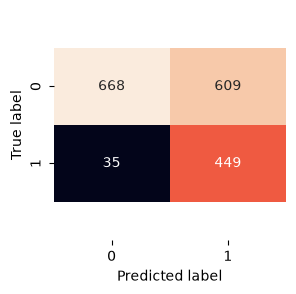
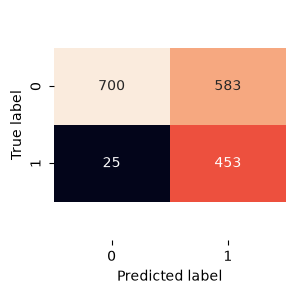
Changed the data file name

diff --git a/README.md b/README.md
@@ -1,0 +1,177 @@
+# 📉 Telco Customer Churn Prediction
+
+<p align="center">
+  <img src="images/workflow.png" alt="Project Workflow" width="100%">
+</p>
+
+An end-to-end supervised machine learning project that predicts whether a telecom customer is likely to churn (cancel their subscription). This project demonstrates the complete machine learning workflow, from exploratory data analysis and data preprocessing to model comparison, overfitting mitigation, and business-oriented threshold optimization.
+
+> **Goal:** Help telecom companies identify customers at risk of churning so proactive retention strategies can be applied.
+
+---
+
+## 🚀 Tech Stack
+
+- **Language:** Python
+- **Data Analysis:** Pandas, NumPy
+- **Machine Learning:** Scikit-learn
+- **Visualization:** Matplotlib, Seaborn
+
+---
+
+## 📁 Project Structure
+
+```text
+.
+├── data/
+│   └── Telco-Customer-Churn.csv
+├── images/
+│   ├── workflow.png
+│   ├── model_comparison.png
+│   └── confusion_matrix.png
+├── telecom.ipynb
+└── README.md
+```
+
+---
+
+## 📊 Dataset
+
+**Telco Customer Churn Dataset**
+
+- **Source:** Kaggle
+- **Samples:** 7,043 customers
+- **Features:** 21 customer attributes
+- **Target:** `Churn` (Yes / No)
+
+The dataset contains customer demographics, account information, subscribed services, and billing details used to predict customer churn.
+
+---
+
+## 🔄 Workflow
+
+The notebook follows the complete supervised machine learning pipeline:
+
+1. Data Loading
+2. Exploratory Data Analysis (EDA)
+3. Data Cleaning
+4. Outlier Detection
+5. Preprocessing Pipeline
+6. Model Training
+7. Hyperparameter Tuning
+8. Model Comparison
+9. Threshold Optimization
+10. Final Evaluation
+
+---
+
+## ✨ Key Features
+
+- Performed Exploratory Data Analysis (EDA) to understand customer behavior and data quality.
+- Cleaned and prepared the dataset by handling missing values, correcting data types, and encoding the target variable.
+- Built a leak-free preprocessing pipeline using **ColumnTransformer** and **Pipeline**.
+- Compared multiple supervised learning models using **RandomizedSearchCV** with 5-fold cross-validation.
+- Diagnosed and mitigated overfitting through hyperparameter tuning.
+- Evaluated model performance using Accuracy, Precision, Recall, F1-score, and Confusion Matrix.
+- Explored decision threshold optimization to demonstrate real-world business tradeoffs.
+
+---
+
+## 📈 Results
+
+| Model | Test F1 |
+|--------|---------:|
+| **Logistic Regression** | **0.655** |
+| SVC | 0.646 |
+| Random Forest | 0.625 |
+| KNN | 0.547 |
+
+### Best Model
+
+- **Model:** Logistic Regression
+- **Training Accuracy:** 75.9%
+- **Testing Accuracy:** 76.5%
+
+The close train and test scores indicate that overfitting was successfully mitigated after hyperparameter tuning.
+
+<p align="center">
+  <img src="images/model_comparison.png" width="700">
+</p>
+
+<p align="center">
+  <img src="images/confusion_matrix.png" width="500">
+</p>
+
+---
+
+## 💡 Business Insight
+
+The dataset is moderately imbalanced (~73% non-churn vs. ~27% churn), making Accuracy alone an insufficient evaluation metric.
+
+By lowering the classification threshold from **0.5** to **0.3**, churn recall increased from **45.7%** to **93.7%**, demonstrating the tradeoff between identifying more at-risk customers and generating additional false positives. This highlights that threshold selection should ultimately be driven by business objectives rather than default model settings.
+
+---
+
+## 🔮 Future Improvements
+
+- Feature engineering
+- Gradient Boosting models (XGBoost / LightGBM)
+- SMOTE for class balancing experiments
+- ROC-AUC and Precision-Recall analysis
+- Model deployment as a web application
+
+---
+
+## ▶️ Running the Project
+
+### Clone the repository
+
+```bash
+git clone <your-repository-url>
+cd Telco_Customer_Churn
+```
+
+### Install dependencies
+
+```bash
+pip install -r requirements.txt
+```
+
+### Launch the notebook
+
+```bash
+jupyter notebook
+```
+
+Open:
+
+```text
+telecom.ipynb
+```
+
+and run all cells.
+
+---
+
+## 📚 Learning Outcomes
+
+Through this project, I strengthened my understanding of:
+
+- Exploratory Data Analysis (EDA)
+- Data preprocessing
+- Scikit-learn Pipelines
+- ColumnTransformer
+- Hyperparameter tuning
+- Cross-validation
+- Overfitting diagnosis
+- Model evaluation
+- Threshold optimization
+- Applying machine learning to real-world business problems
+
+---
+
+## 📖 Dataset Source
+
+**Telco Customer Churn Dataset**
+
+https://www.kaggle.com/datasets/blastchar/telco-customer-churn